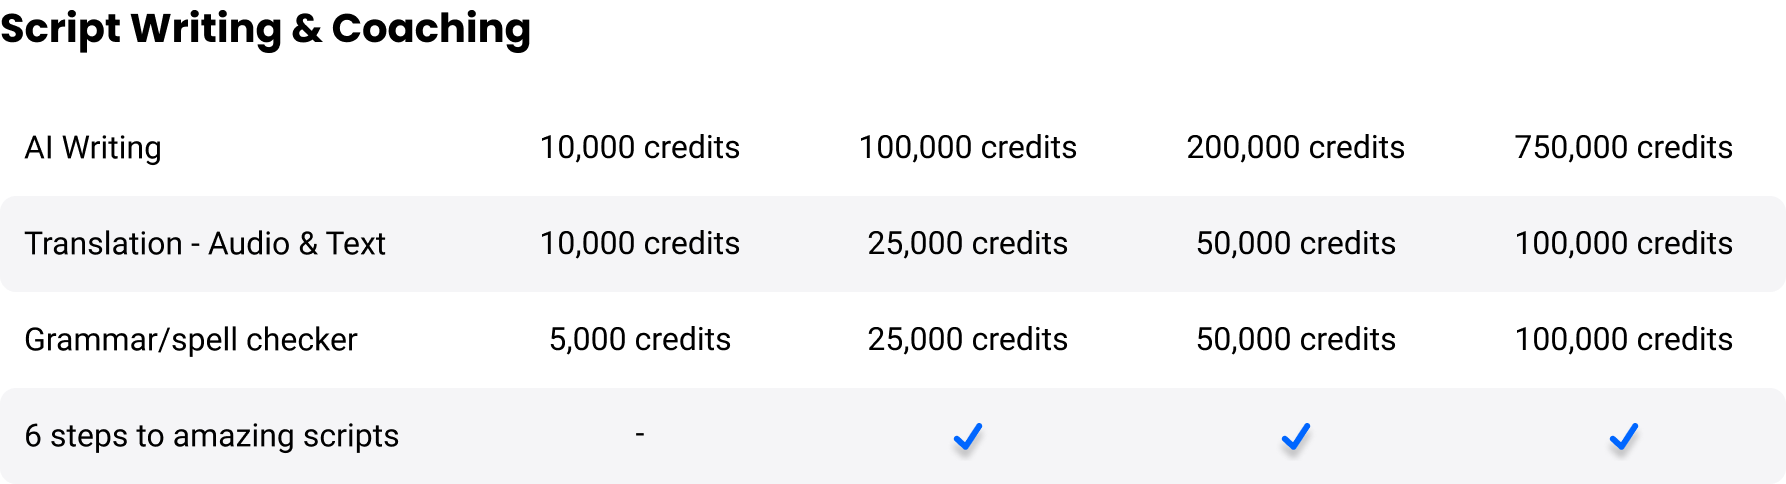
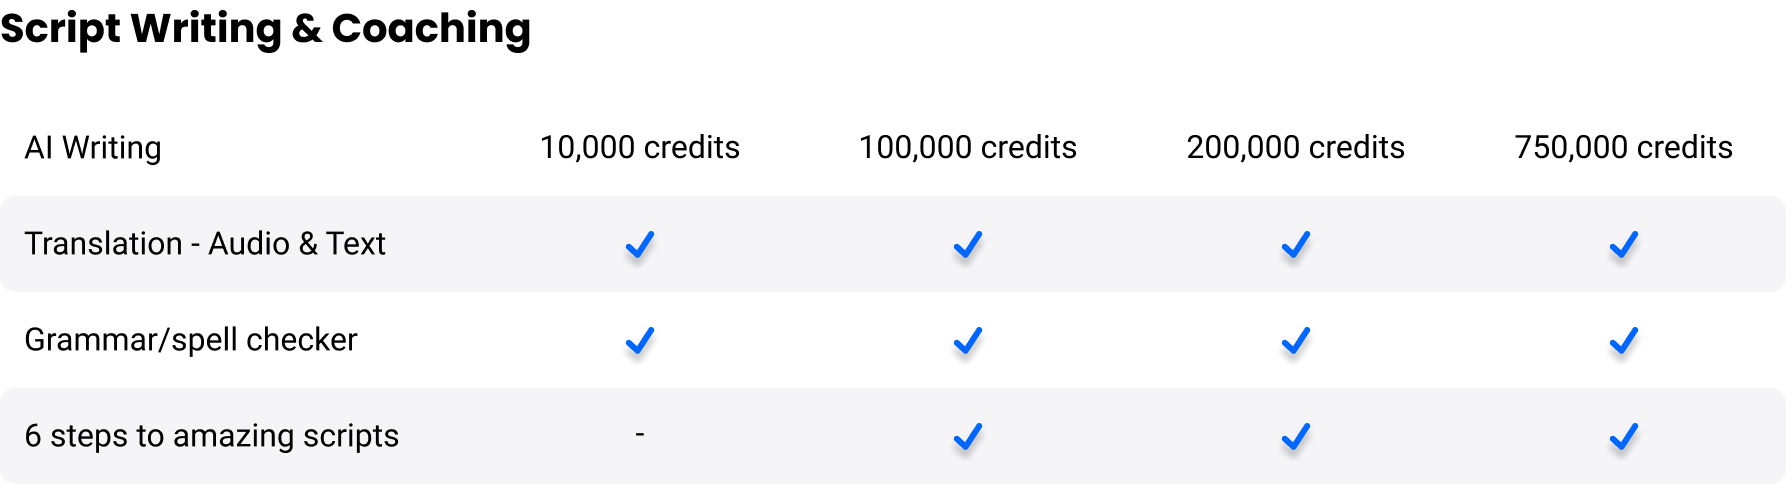
replace remaining tables

diff --git a/apps/nextjs/src/app/(site)/plans/explore/index.tsx b/apps/nextjs/src/app/(site)/plans/explore/index.tsx
@@ -98,7 +98,7 @@ export default function Explore({
           className={`${roboto.className} mb-0 mt-[8px] flex w-[893px] justify-around gap-1 text-[18px] font-bold`}
         >
           <div className="w-[220px]" />
-          <span className="w-[142px] text-center">
+          <span className="w-[150px] text-center">
             <CheckoutButton
               hasPlan={
                 session?.user.subscription?.status === "FREE_TRIAL" ||
@@ -111,7 +111,7 @@ export default function Explore({
               type="primary"
             />
           </span>
-          <span className="w-[142px] text-center">
+          <span className="w-[150px] text-center">
             <CheckoutButton
               hasPlan={setHasPlan(session, "EDUCATION", interval, period)}
               productId={PRODUCTS_ID.EDUCATION![period]}
@@ -121,7 +121,7 @@ export default function Explore({
               type="primary"
             />
           </span>
-          <span className="w-[142px] text-center">
+          <span className="w-[150px] text-center">
             <CheckoutButton
               hasPlan={setHasPlan(session, "CREATOR", interval, period)}
               productId={PRODUCTS_ID.CREATOR![period]}
@@ -131,7 +131,7 @@ export default function Explore({
               type="accent"
             />
           </span>
-          <span className="w-[142px] text-center">
+          <span className="w-[150px] text-center">
             <CheckoutButton
               hasPlan={setHasPlan(session, "BUSINESS", interval, period)}
               productId={PRODUCTS_ID.BUSINESS![period]}
